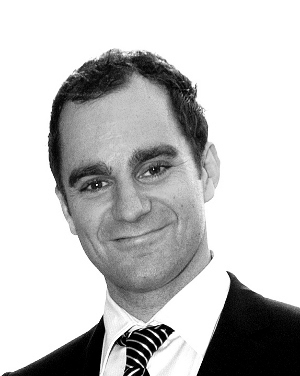
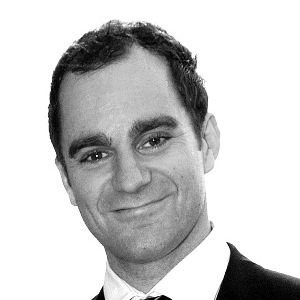
fixed #1: squarified photos

diff --git a/_persons/park.md b/_persons/park.md
@@ -6,7 +6,7 @@ key: park
 permalink: /persons/park/
 role: advisor
 email: peter_park@harvard.edu
-image: /assets/images/team/park.png
+image: /assets/images/team/park.jpg
 organization: Harvard Medical School
 position: Professor
 website: http://compbio.med.harvard.edu/principal_investigator.html

diff --git a/_persons/lex.md b/_persons/lex.md
@@ -6,7 +6,7 @@ key: lex
 permalink: /persons/lex/
 role: core
 email: alex@seas.harvard.edu
-image: /assets/images/team/lex.png
+image: /assets/images/team/lex.jpg
 organization: Harvard University
 position: Postdoctoral Research Associate
 website: http://alexander-lex.com
